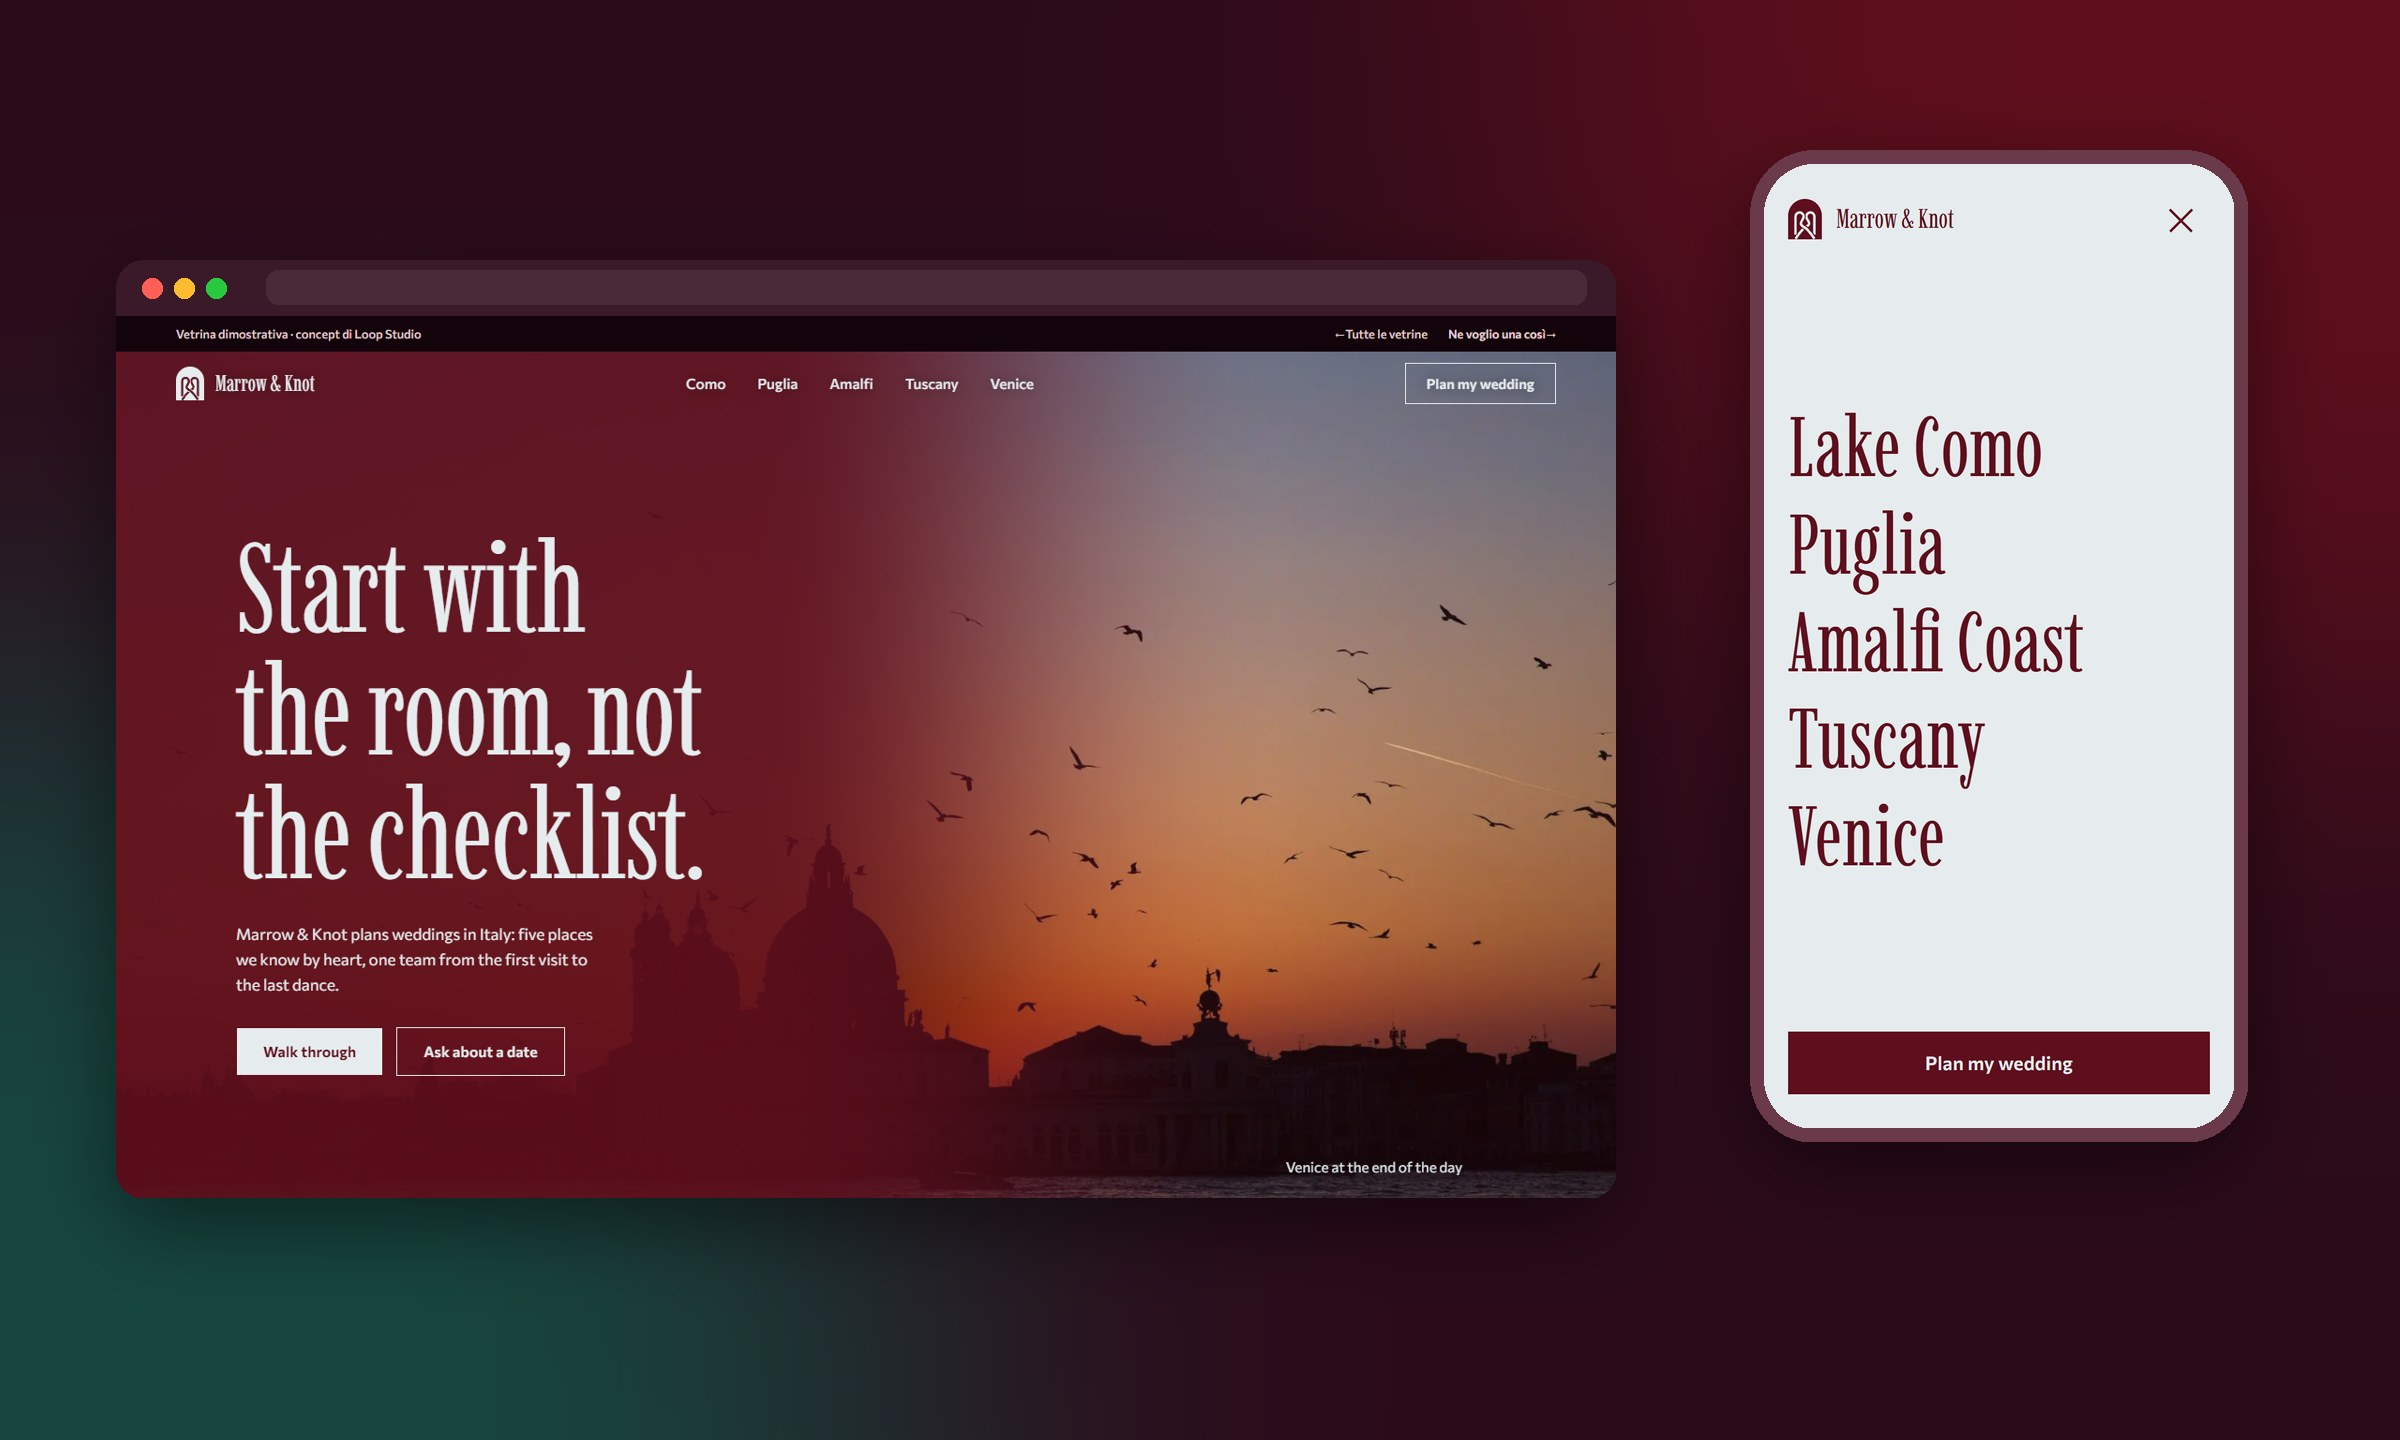
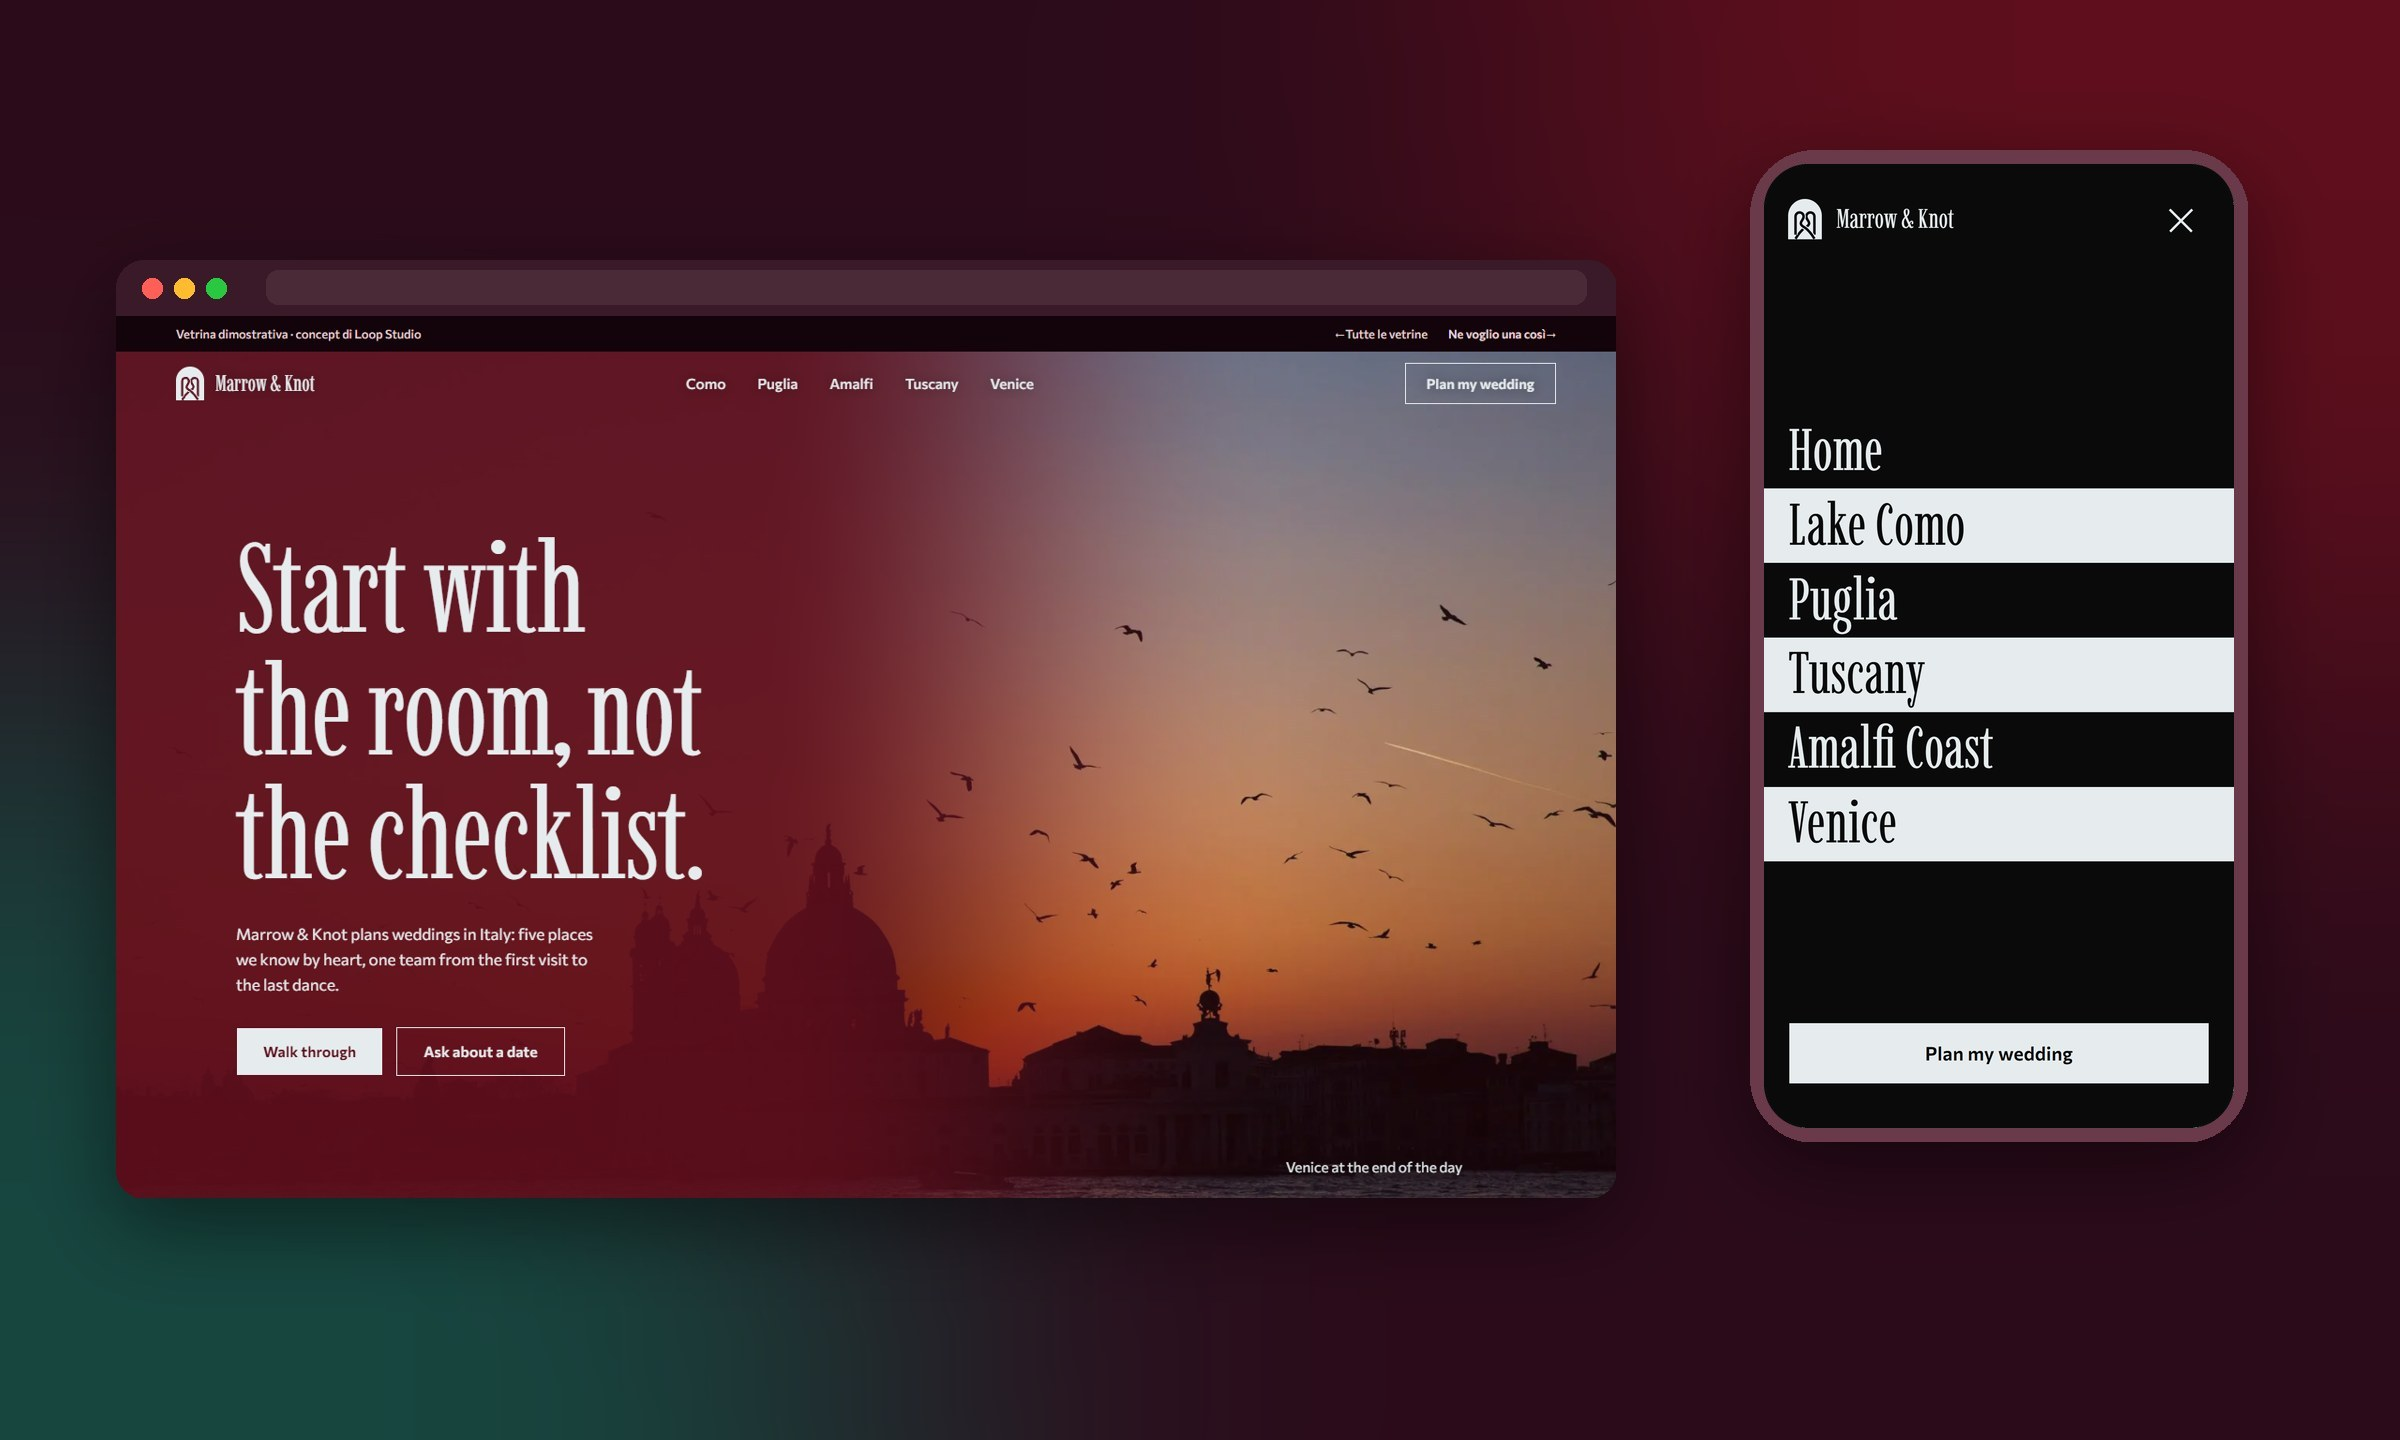
Hub: card di Marrow & Knot con il menù mobile nuovo (strisce nere e bianche), testi alternativi aggiornati

Changed region(s): [[0.7188, 0.0938, 0.9375, 0.7812]]

diff --git a/src/hub/data.ts b/src/hub/data.ts
@@ -917,7 +917,7 @@ export const concepts: Concept[] = [
 		shot: shotMarrowknot,
 		shotAlt: '',
 		crop: '70% 40%',
-		cardAlt: 'Marrow & Knot su desktop e su telefono: titolo bianco su fondo rosso pompeiano con un arco che mostra una loggia sul lago di Como, e il menù mobile in marmo con i nomi dei cinque luoghi.',
+		cardAlt: 'Marrow & Knot su desktop e su telefono: titolo bianco su fondo rosso pompeiano con un arco che mostra una loggia sul lago di Como, e il menù mobile nero a strisce alternate nere e bianche con i nomi dei cinque luoghi.',
 		mood: 'Un’infilata di sale di un palazzo: rosso pompeiano, verderame, marmo e vino, titoli stretti e alti, foto che si tessono a fili e un nodo che si stringe. Niente oro.',
 		caratteri: 'Imbue e Commissioner',
 		palette: ['#5e0e1c', '#17463f', '#2b0b1a', '#e6ecee', '#7a1428', '#d9a5ad'],

diff --git a/README.md b/README.md
@@ -304,7 +304,7 @@
 
 ### 15 · Marrow & Knot
 
-<a href="https://vetrine.theloopstudio.org/eventi/wedding/"><img src="docs/img/card-marrowknot.jpg" alt="Marrow & Knot on desktop and mobile: a white title on a Pompeian-red background beside an arch showing a lakeside loggia, and the phone menu as a marble arch listing the five places." width="100%"></a>
+<a href="https://vetrine.theloopstudio.org/eventi/wedding/"><img src="docs/img/card-marrowknot.jpg" alt="Marrow & Knot on desktop and mobile: a white title on a Pompeian-red background beside an arch showing a lakeside loggia, and the phone menu as black and white stripes listing the five places." width="100%"></a>
 
 *Start with the room, not the checklist.* A wedding planner for destinations in Italy, in English, with full-page photographs that weave themselves.
 
@@ -314,7 +314,7 @@
 | **Mood** | An enfilade of rooms in a palazzo: Pompeian red, verdigris, cold marble and wine, tall condensed titles, no gold. The knot of the logo is the thread of the whole page |
 | **Type** | Imbue (a narrow high-contrast display serif with an optical-size axis) for titles, Great Vibes for the place names, Commissioner for text |
 | **Palette** | <img src="docs/img/palette-marrowknot.svg" alt="Pompeian red, verdigris, wine, cold marble, carmine and dusty pink" height="22"> |
-| **Signature moves** | A **horizontal corridor of five rooms** (Como, Puglia, Amalfi, Tuscany, Venice) driven by vertical scroll on desktop with a mouse (GSAP ScrollTrigger pin + Lenis), a plain vertical stack on phones, touch and reduced motion. **Full-page photographs woven from threads**: one WebGL canvas (OGL, no Three.js) sits behind the text and draws three to four photos per room; entering a room the warp drops, the weft crosses it and the picture closes, and moving on the next photo weaves over the previous one, with a colour veil under the text and a lens that follows the mouse. Textures load when a room is near and are released when far; on phones the canvas starts at the first gesture. The **text builds itself** word by word with the scroll and stays still while the photographs change; each room adds a short history and a few things to know for guests coming from abroad. A **video inside a keyhole mask** that only plays in view. A **trefoil knot** drawn point by point with over/under crossings that tightens as the request is filled in. Place names are set in Great Vibes. The phone menu is a **marble arch** that rises from the bottom |
+| **Signature moves** | A **horizontal corridor of five rooms** (Como, Puglia, Amalfi, Tuscany, Venice) driven by vertical scroll on desktop with a mouse (GSAP ScrollTrigger pin + Lenis), a plain vertical stack on phones, touch and reduced motion. **Full-page photographs woven from threads**: one WebGL canvas (OGL, no Three.js) sits behind the text and draws three to four photos per room; entering a room the warp drops, the weft crosses it and the picture closes, and moving on the next photo weaves over the previous one, with a colour veil under the text and a lens that follows the mouse. Textures load when a room is near and are released when far; on phones the canvas starts at the first gesture. The **text builds itself** word by word with the scroll and stays still while the photographs change; each room adds a short history and a few things to know for guests coming from abroad. A **video inside a keyhole mask** that only plays in view. A **trefoil knot** drawn point by point with over/under crossings that tightens as the request is filled in. Place names are set in Great Vibes. The phone menu is a **stack of alternating black and white stripes** that rises from the bottom |
 | **Lighthouse** | 97 performance on mobile locally, 98 on desktop, 100 on accessibility and best practices, no layout shift (SEO 66 only because the page is `noindex` by design). Photographs (Unsplash, free licence) and one video (Pexels) are archive images declared as illustrative; logo mark rebuilt by hand as SVG |
 
 [**Open Marrow & Knot →**](https://vetrine.theloopstudio.org/eventi/wedding/)
